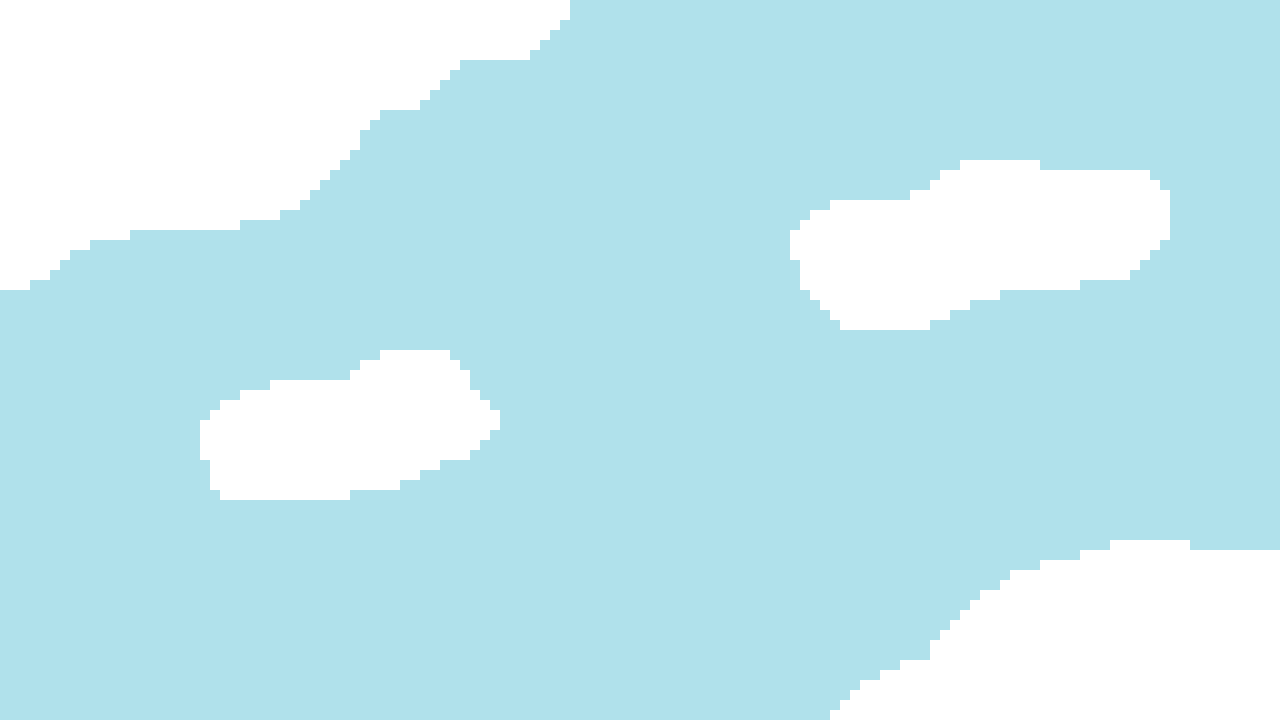
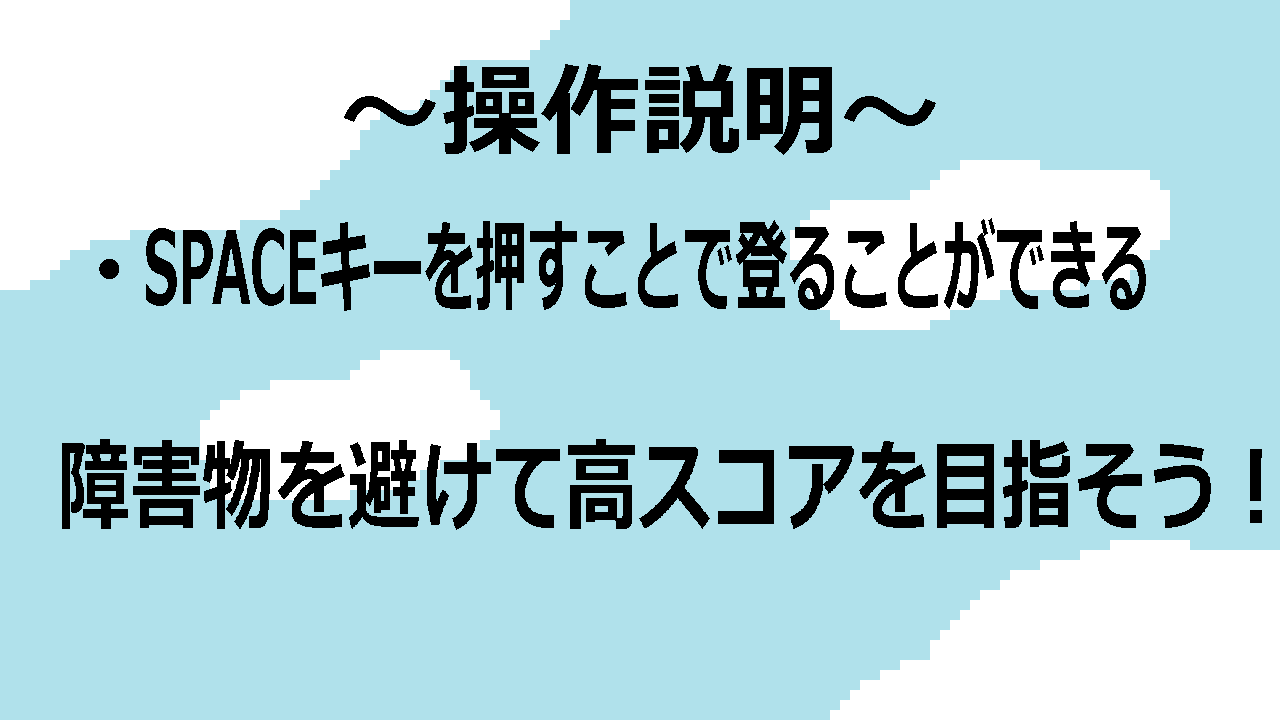
あと障害物のInitialize

diff --git a/DirectXGame/main.cpp b/DirectXGame/main.cpp
@@ -23,8 +23,8 @@ int WINAPI WinMain(HINSTANCE, HINSTANCE, LPSTR, int) {
 	AxisIndicator* axisIndicator = nullptr;
 	PrimitiveDrawer* primitiveDrawer = nullptr;
 	GameScene* gameScene = nullptr;
-	/*Obstacles* obstacles = nullptr;
-	Model* model = nullptr;*/
+	//Obstacles* obstacles = nullptr;
+	//Model* model = nullptr;
 
 	// ゲームウィンドウの作成
 	win = WinApp::GetInstance();
@@ -115,6 +115,8 @@ int WINAPI WinMain(HINSTANCE, HINSTANCE, LPSTR, int) {
 				gameScene->Initialize();
 				//obstacles->Initialize(model, float radian, const Vector3& position, Vector3& velocity);
 				gameOver->Initialize();
+				// リザルトの毎フレーム処理
+				result->Initialize();
 			}
 			
 			break;
@@ -155,8 +157,7 @@ int WINAPI WinMain(HINSTANCE, HINSTANCE, LPSTR, int) {
 		}
 
 	
-		////リザルトの毎フレーム処理
-		//result->Update();
+		
 		
 		// 軸表示の更新
 		axisIndicator->Update();
@@ -177,10 +178,14 @@ int WINAPI WinMain(HINSTANCE, HINSTANCE, LPSTR, int) {
 		case Scene::SceneType::kGamePlay:
 			// ゲームシーンの描画
 			gameScene->Draw();
+			// リザルトの毎フレーム処理
+			result->Update();
 			break;
 
 		case Scene::SceneType::kGameOver:
 			gameOver->Draw();
+			// リザルト画面
+			result->Draw();
 			break;
 
 		case Scene::SceneType::kGameClear:
@@ -188,8 +193,7 @@ int WINAPI WinMain(HINSTANCE, HINSTANCE, LPSTR, int) {
 			break;
 		}
 
-		////リザルト画面
-		//result->Draw();
+		
 		
 		// 軸表示の描画
 		axisIndicator->Draw();

diff --git a/DirectXGame/scene/GameScene.cpp b/DirectXGame/scene/GameScene.cpp
@@ -109,8 +109,9 @@ void GameScene::Initialize() {
 }
 
 void GameScene::Update() {
-#ifdef _DEBUG
 	isSceneEnd_ = false;
+#ifdef _DEBUG
+	
 	if (input_->TriggerKey(DIK_S)) {
 		isDebugCameraAcctive_ = true;
 	}
@@ -134,7 +135,7 @@ void GameScene::Update() {
 
 	player_->Update();
 	tree_->Update();
-
+	
 	if (input_->TriggerKey(DIK_S)) {
 		audio_->StopWave(soundDataHandle_);
 	}

diff --git a/DirectXGame/TitleScene.cpp b/DirectXGame/TitleScene.cpp
@@ -10,11 +10,10 @@ void TitleScene::Initialize() {
 	audio_ = Audio::GetInstance();
 
 	//画像
-	textureHandle_=TextureManager::Load("mrti.png");
+	textureHandle_=TextureManager::Load("mrtn.png");
 	sprite_ = Sprite::Create(textureHandle_, {0, 0});
-	
-	sprite_ = Sprite::Create(TextureManager::Load("debugfont.png"), {0.0f, 0.0f});
 }
+	
 
 void TitleScene::Update() {
 	

diff --git a/DirectXGame/scene/GameScene.h b/DirectXGame/scene/GameScene.h
@@ -71,7 +71,7 @@ public: // メンバ関数
 	void AddMeterCount() { MeterCount += 1; };
 
 	bool IsSceneEnd() { return isSceneEnd_; }
-	Scene::SceneType NextScene() { return Scene::SceneType::kGameClear; }
+	Scene::SceneType NextScene() { return Scene::SceneType::kGameOver; }
 
 
 
